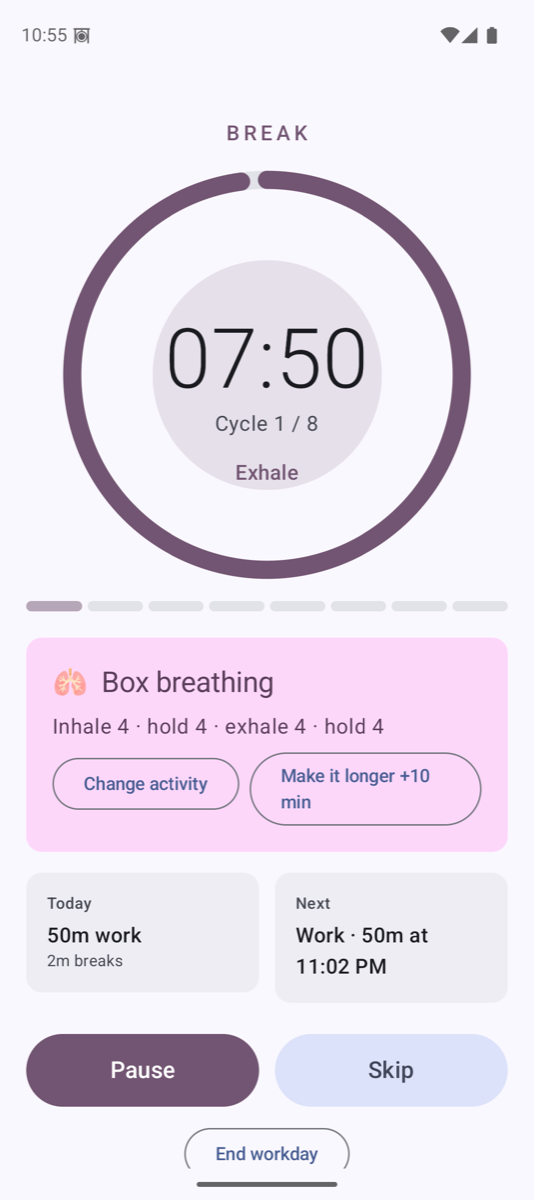
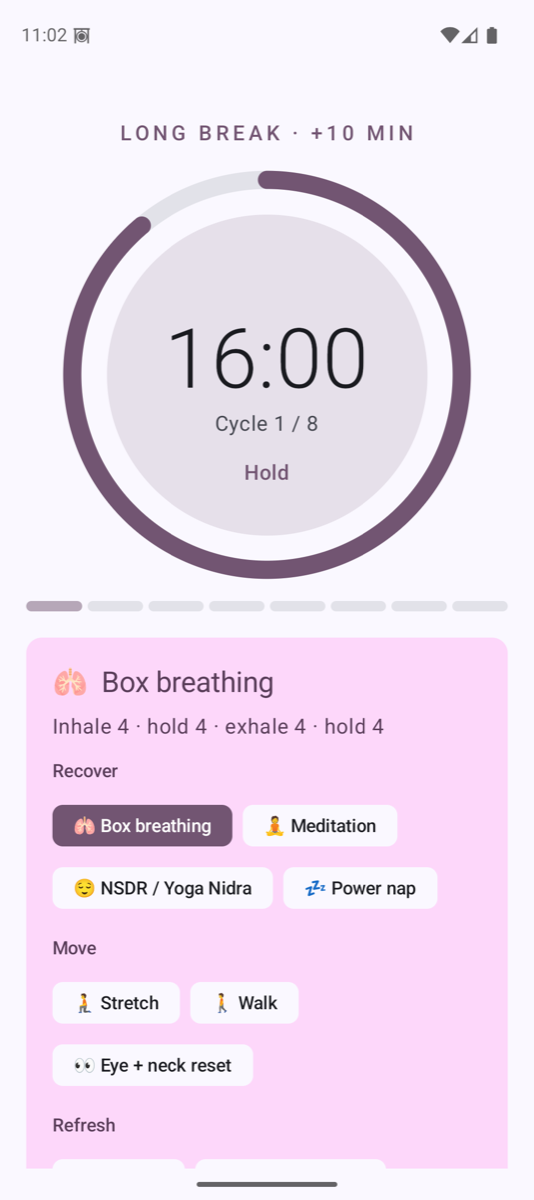
fix: break buttons show just +10 min with equal heights, extension shown in header, even stat cards, break-coloured Skip

diff --git a/app/src/main/java/com/shivam1410/intervaltimer/Ui.kt b/app/src/main/java/com/shivam1410/intervaltimer/Ui.kt
@@ -13,6 +13,8 @@ import androidx.compose.foundation.layout.Arrangement
 import androidx.compose.foundation.layout.Box
 import androidx.compose.foundation.layout.Column
 import androidx.compose.foundation.layout.FlowRow
+import androidx.compose.foundation.layout.IntrinsicSize
+import androidx.compose.foundation.layout.fillMaxHeight
 import androidx.compose.foundation.layout.Row
 import androidx.compose.foundation.layout.Spacer
 import androidx.compose.foundation.layout.fillMaxSize
@@ -237,7 +239,7 @@ private fun Running(plan: List<Phase>, s: Session, settings: Settings, now: Long
     val (workDone, breakDone) = totals(plan, s, now)
     val chosen = activity(settings.activity)
     val phaseMs = s.phaseMs.takeIf { it > 0 } ?: p.ms
-    val brk = if (s.bonus > 0) "LONG BREAK" else "BREAK"
+    val brk = if (s.bonus > 0) "LONG BREAK · +${extraMin(s)} MIN" else "BREAK"
     val label = when (p.kind) {
         Kind.WORK -> "WORK"
         Kind.PREP -> "$brk · PREPARE"
@@ -267,9 +269,12 @@ private fun Running(plan: List<Phase>, s: Session, settings: Settings, now: Long
 
         if (isWork) FocusMusic(settings.focusSound) else BreakChoices(p, s, chosen)
 
-        Row(Modifier.fillMaxWidth().padding(top = 16.dp), horizontalArrangement = Arrangement.spacedBy(12.dp)) {
-            Stat("Today", "${fmtDur(workDone)} work", "${fmtDur(breakDone)} breaks", Modifier.weight(1f))
-            Stat("Next", Timer.subtitle(s, now).removePrefix("Next: ").takeIf { isWork } ?: nextLabel(plan, s), "", Modifier.weight(1f))
+        Row(
+            Modifier.fillMaxWidth().padding(top = 16.dp).height(IntrinsicSize.Min),
+            horizontalArrangement = Arrangement.spacedBy(12.dp),
+        ) {
+            Stat("Today", "${fmtDur(workDone)} work", "${fmtDur(breakDone)} breaks", Modifier.weight(1f).fillMaxHeight())
+            Stat("Next", Timer.subtitle(s, now).removePrefix("Next: ").takeIf { isWork } ?: nextLabel(plan, s), "", Modifier.weight(1f).fillMaxHeight())
         }
 
         Row(Modifier.fillMaxWidth().padding(top = 24.dp), horizontalArrangement = Arrangement.spacedBy(12.dp)) {
@@ -278,7 +283,14 @@ private fun Running(plan: List<Phase>, s: Session, settings: Settings, now: Long
                 Modifier.weight(1f).height(56.dp),
                 colors = ButtonDefaults.buttonColors(containerColor = accent),
             ) { Text(if (s.paused) (if (s.pausedLeft == phaseMs) "Start" else "Resume") else "Pause", fontSize = 18.sp) }
-            FilledTonalButton({ Timer.skip() }, Modifier.weight(1f).height(56.dp)) { Text("Skip", fontSize = 18.sp) }
+            FilledTonalButton(
+                { Timer.skip() }, Modifier.weight(1f).height(56.dp),
+                colors = if (isWork) ButtonDefaults.filledTonalButtonColors()
+                else ButtonDefaults.filledTonalButtonColors(
+                    containerColor = MaterialTheme.colorScheme.tertiaryContainer,
+                    contentColor = MaterialTheme.colorScheme.onTertiaryContainer,
+                ),
+            ) { Text("Skip", fontSize = 18.sp) }
         }
         OutlinedButton({ confirmEnd = true }, Modifier.padding(top = 12.dp)) { Text("End workday") }
     }
@@ -321,11 +333,12 @@ private fun BreakChoices(p: Phase, s: Session, chosen: Activity) {
                 Text(chosen.hint, style = MaterialTheme.typography.bodyLarge)
             }
             if (changing) ActivityPicker(chosen.id) { Timer.chooseActivity(it) }
-            Row(horizontalArrangement = Arrangement.spacedBy(8.dp)) {
-                if (!changing) OutlinedButton({ changing = true }) { Text("Change activity") }
-                OutlinedButton({ Timer.extendBreak() }) {
-                    Text(if (s.bonus > 0) "Longer +10 min (now +${extraMin(s)})" else "Make it longer +10 min")
-                }
+            // Same solid surface style as the activity chips; fixed height keeps the pair even.
+            val cs = MaterialTheme.colorScheme
+            val colors = ButtonDefaults.buttonColors(containerColor = cs.surface, contentColor = cs.onSurface)
+            Row(Modifier.padding(top = 4.dp), horizontalArrangement = Arrangement.spacedBy(8.dp)) {
+                if (!changing) Button({ changing = true }, Modifier.height(44.dp), colors = colors) { Text("Change activity") }
+                Button({ Timer.extendBreak() }, Modifier.height(44.dp), colors = colors) { Text("+10 min") }
             }
         }
     }
